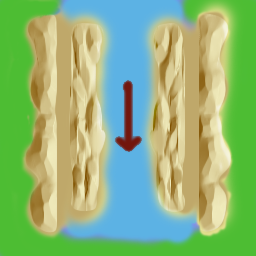
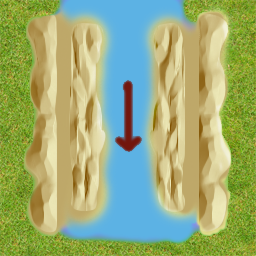
* Changed the textures to match the new grass * Fixed a component error

Changed region(s): [[0.0, 0.0, 1.0, 1.0]]

diff --git a/Source/ECSL/Framework/Components/Tables/EntityTable.cpp b/Source/ECSL/Framework/Components/Tables/EntityTable.cpp
@@ -129,7 +129,7 @@ void EntityTable::GetEntityComponents(std::vector<unsigned int>& _out, unsigned 
 		for (unsigned int bitIndex = 0; bitIndex < bitCount; ++bitIndex)
 		{
 			if (componentBitSet[bitSetIndex] & ((BitSet::DataType)1 << (bitIndex)))
-				_out.push_back(bitSetIndex * BitSet::GetIntByteSize() + bitIndex);
+				_out.push_back(bitSetIndex * BitSet::GetIntByteSize() * 8 + bitIndex);
 		}
 	}
 }
